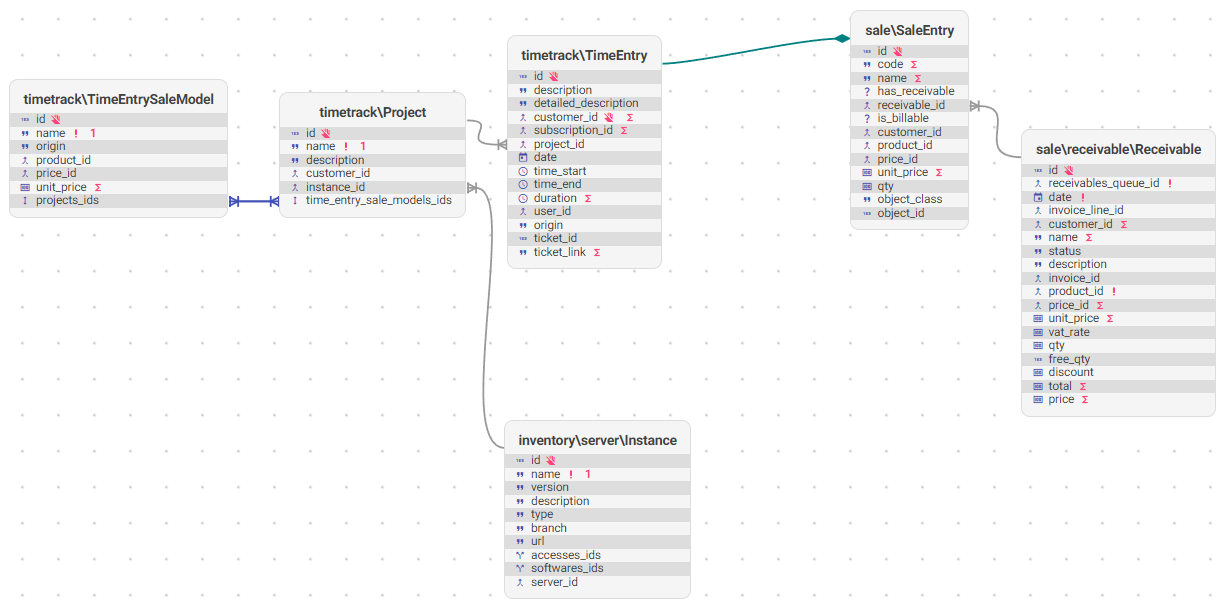
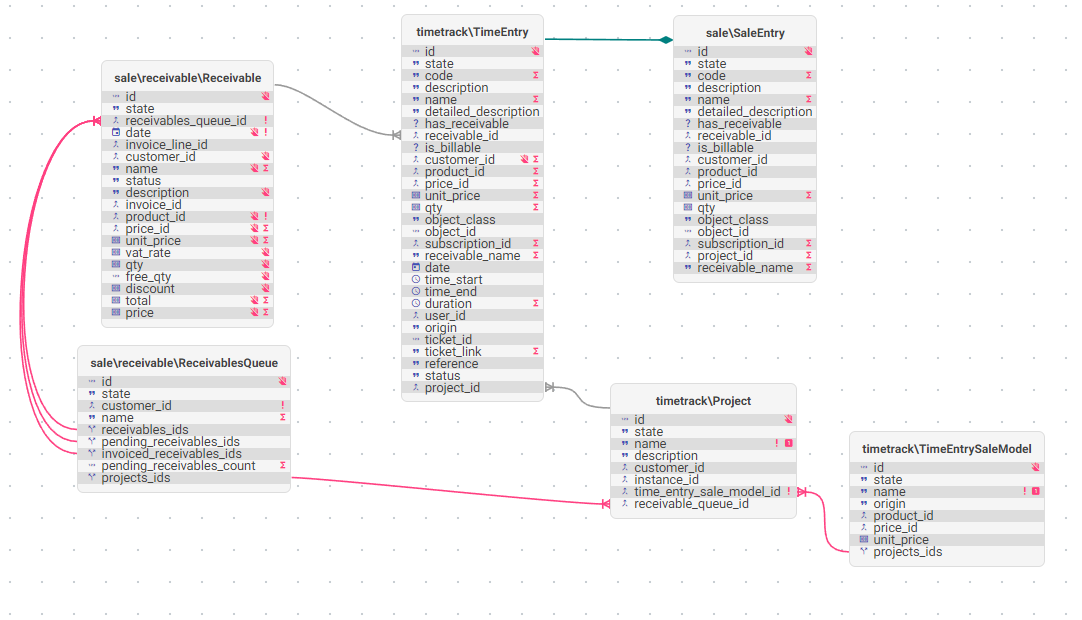
Update timetrack doc

Changed region(s): [[0.0, 0.0312, 0.8235, 0.7812], [0.366, 0.625, 0.976, 0.9688], [0.8235, 0.2188, 1.0, 0.6875]]

diff --git a/docs/developer-manual/timetrack/classes.md b/docs/developer-manual/timetrack/classes.md
@@ -1,52 +1,91 @@
-# Time entry
+# Timetrack classes
+
+## Time entry
 
 This class extends sale\SaleEntry, this means that receivables can be generated from time entries.
 
-## Properties
+### Properties
 
-| Property             | Type    | Description                                                                       | Value(s)                                       |
-|----------------------|---------|-----------------------------------------------------------------------------------|------------------------------------------------|
-| description          | string  | Description of the entry                                                          |                                                |
-| detailed_description | string  | Detailed description of the entry                                                 |                                                |
-| project_id           | integer | Project the time entry concerns                                                   |                                                |
-| customer_id          | integer | Customer the time entry concerns                                                  |                                                |
-| status               | string  | Current status of the time entry                                                  | (pending, ready, validated, billed)            |
-| date                 | date    | Date on which the time entry was realised                                         |                                                |
-| time_start           | time    | Time when task was started                                                        |                                                |
-| time_end             | time    | Time when task was finished                                                       |                                                |
-| duration             | time    | Duration of the time spent on the task                                            |                                                |
-| user_id              | integer | User who realised the task                                                        |                                                |
-| origin               | string  | What is the origin of the time entry                                              | (backlog, email, support)                      |
-| ticket_id            | integer | If origin support then a ticket id can be added to generate the ticket link       |                                                |
-| ticket_link          | string  | Automatically generated ticket link from project_id.instance_id.url and ticket_id | {instance_id.url}/support/#/ticket/{ticket_id} |
-| **SaleEntry**        |         |                                                                                   |                                                |
-| product_id           | integer | Catalog product                                                                   |                                                |
-| price_id             | integer | Product price                                                                     |                                                |
-| unit_price           | float   | Unit price per hour                                                               |                                                |
-| receivable_id        | integer | Generated receivable                                                              |                                                |
-| has_receivable       | boolean | True if a receivable has been generated                                           |                                                |
+| Property             | Type     | Description                                                                                   | Value(s)                                       |
+|----------------------|----------|-----------------------------------------------------------------------------------------------|------------------------------------------------|
+| date                 | date     | Date of the entry                                                                             |                                                |
+| time_start           | time     | Start time of the entry                                                                       |                                                |
+| time_end             | time     | End time of the entry                                                                         |                                                |
+| duration             | time     | Duration of the entry (from time start and time end)                                          |                                                |
+| qty                  | float    | Quantity in hours (from duration)                                                             |                                                |
+| user_id              | many2one | User the time entry was performed by                                                          |                                                |
+| origin               | string   | What the task performed is a response to                                                      | (project, backlog, email, support)             |
+| ticket_id            | integer  | Identifier of the support ticket                                                              |                                                |
+| ticket_link          | string   | Support ticket link for quick access (from ticket id and project instance link)               | {instance_id.url}/support/#/ticket/{ticket_id} |
+| reference            | string   | Reference completing the origin                                                               |                                                |
+| **SaleEntry**        |          |                                                                                               |                                                |
+| name                 | string   | Short readable identifier of the entry (from project name, origin, reference and description) |                                                |
+| description          | string   | Short description of the task performed                                                       |                                                |
+| project_id           | many2one | Identifier of the Project the sale entry originates from                                      |                                                |
+| customer_id          | many2one | Customer this time entry was created for (from project)                                       |                                                |
+| object_class         | string   | Class of the object object_id points to                                                       | timetrack\Project                              |
+| product_id           | many2one | Product of the sale catalog (from project sale model)                                         |                                                |
+| price_id             | many2one | Price of the sale (from project sale model)                                                   |                                                |
+| unit_price           | float    | Unit price of the product related to the entry (from project sale model)                      |                                                |
 
-# Project
+### Workflow
 
-## Properties
+```puml
+@startuml
+left to right direction
+hide empty description
 
-| Property                   | Type      | Description                                            |
-|----------------------------|-----------|--------------------------------------------------------|
-| name                       | string    | Name of the project                                    |
-| description                | string    | Description of the project                             |
-| customer_id                | integer   | Customer the project concerns                          |
-| instance_id                | integer   | Instance the project is installed on                   |
-| time_entry_sale_models_ids | many2many | A project can be linked to one or multiple sale models |
+[*] --> pending
+pending --> ready: request validation
+ready --> validated: validate
+ready --> pending: refuse
+validated --> billed: bill
+billed --> [*]
 
-# Time entry sale model
+@enduml
+```
 
-## Properties
+**Statuses**:
 
-| Property     | Type      | Description                                                      |
-|--------------|-----------|------------------------------------------------------------------|
-| name         | string    | Name of the model                                                |
-| origin       | string    | Origin the new time entry need to match for the model apply      |
-| projects_ids | many2many | Projects the new time entry need to match for the model to apply |
-| product_id   | integer   | Product to apply on new time entry if it matches                 |
-| price_id     | integer   | Price to apply on new time entry if it matches                   |
-| unit_price   | float     | Unit price to apply on new time entry if it matches              |
+- **pending**: The entry is still being modified by the creator.
+- **ready**: The entry was completed and is ready for the validation process.
+- **validated**: The entry was accepted as valid and can now be billed to the customer.
+- **billed**:  The entry was billed to the customer.
+
+**Transitions**:
+
+- **request validation**: Request approval of the time entry.
+- **validate**: Validate the entry data, it can be billed.
+- **refuse**: Refuse the entry data, it needs some modifications.
+- **bill**: Create a receivable that can be invoiced to the customer.
+
+## Project
+
+A project is linked to a customer and time entries.
+It organises time entries and allows to configure a sale model to auto apply sale related fields of a time entry.
+
+### Properties
+
+| Property                 | Type     | Description                                                                     | Value(s) |
+|--------------------------|----------|---------------------------------------------------------------------------------|----------|
+| name                     | string   | Name of the project                                                             |          |
+| description              | string   | Description of the project                                                      |          |
+| customer_id              | integer  | Customer the project concerns                                                   |          |
+| instance_id              | integer  | Instance the project is installed on                                            |          |
+| time_entry_sale_model_id | many2one | The sale model to apply on project's time entries                               |          |
+| receivable_queue_id      | many2one | The receivable queue to use for receivables generated by project's time entries |          |
+
+## Time entry sale model
+
+A (time entry) sale model allows to define which price (and product) should be used for time entries of a given project.
+
+### Properties
+
+| Property     | Type     | Description                                                     | Value(s)                           |
+|--------------|----------|-----------------------------------------------------------------|------------------------------------|
+| name         | string   | Name of the model                                               |                                    |
+| origin       | string   | Origin the new time entry need to match for the model apply     | (project, backlog, email, support) |
+| product_id   | integer  | Product to apply on new time entry if it matches                |                                    |
+| price_id     | integer  | Price to apply on new time entry if it matches                  |                                    |
+| unit_price   | float    | Unit price to apply on new time entry if it matches             |                                    |
+| projects_ids | one2many | Project the new time entry need to match for the model to apply |                                    |

diff --git a/docs/developer-manual/timetrack/actions.md b/docs/developer-manual/timetrack/actions.md
@@ -2,19 +2,20 @@
 
 ## Quick create
 
-Create quickly a new time entry that is meant to be modified inline.
-The user (usually the authenticated one), project and the origin are the only needed data to create quickly a new time entry.
-
-To get the most of this feature, time entry sale models need to be configured.
-It will set the sale information of the created time entry.
+Create a new time entry for given project and set its status to ready for validation.
+The time entry end time will be set to the current time rounded to a quarter of an hour.
+If a _30 minutes_ entry is created at _14:07_ the start time will be _13:30_ and the end time will be _14:00_.
+The time is set according to the time zone setting.
 
 ### Params
 
-| Param      | Type     | Required | Description                       | Value(s)              |
-|------------|----------|:--------:|-----------------------------------|-----------------------|
-| user_id    | many2one |    x     | User that realised the time entry |                       |
-| project_id | many2one |    x     | Project the time entry concerns   |                       |
-| origin     | string   |    x     | Origin of the time entry          | backlog/email/support |
+| Param       | Type     | Required | Description                                                  | Value(s)                           |
+|-------------|----------|:--------:|--------------------------------------------------------------|------------------------------------|
+| project_id  | many2one |    x     | Project the time entry concerns                              |                                    |
+| origin      | string   |    x     | Origin of the time entry                                     | (project, backlog, email, support) |
+| reference   | string   |          | Reference completing the origin                              |                                    |
+| description | string   |    x     | Short description                                            |                                    |
+| duration    | time     |          | Task duration in seconds (default 900 seconds => 15 minutes) |                                    |
 
 ### Uml
 
@@ -25,20 +26,19 @@ start
 
 :Quick create;
 
-if (Does the given user exist?) then (yes)
+if (Is user authenticated?) then (yes)
   if (Does the given project exist?) then (yes)
-    if (Can a sale model be applied?) then (yes)
-      :Apply sale model;
-    else (no)
-    endif
+    :Compute entry start & end time according to time zone;
+  
+    :Create time entry;
+      
+    :Apply request-validation transition;
   else (no)
     stop
   endif
 else (no)
   stop
 endif
-
-:Create time entry;
 
 stop
 

diff --git a/docs/developer-manual/timetrack/uml.md b/docs/developer-manual/timetrack/uml.md
@@ -4,20 +4,10 @@
 
 ![Timetrack models relations](../../assets/img/uml/timetrack/object-relational/package.png)
 
-## Timetrack and related packages
-
-![Timetrack models relations with other packages models](../../assets/img/uml/timetrack/object-relational/all-packages.png)
-
-## Time entry
-
-![Time entry relations with other packages models](../../assets/img/uml/timetrack/object-relational/time-entry.png)
+## Time entry sale inheritance
 
 ![Time entry inheritance with sale entry](../../assets/img/uml/timetrack/object-relational/time-entry-inheritance-sale.png)
 
-## Project
+## Timetrack and related packages
 
-![Project relations with other packages models](../../assets/img/uml/timetrack/object-relational/project.png)
-
-## Time entry sale model
-
-![Time entry sale model relations with other packages models](../../assets/img/uml/timetrack/object-relational/time-entry-sale-model.png)
+![Timetrack models relations with other packages models](../../assets/img/uml/timetrack/object-relational/all-packages.png)

diff --git a/docs/developer-manual/timetrack/index.md b/docs/developer-manual/timetrack/index.md
@@ -14,9 +14,5 @@ A customer project categorizes the time entries, it is also used to apply specif
 
 ## Time entry sale model
 
-A sale model allows to automatically set the sale information of a new time entry.
-Its goal is to ease the creation of time entries.
-
-Each origin (backlog/email/support) can have a default sale model to apply on new time entries from that origin.
-Other sale models can be created by linking them to specific projects.
-A sale model with the same origin and project than the new time entry will be applied by priority.
+A sales model streamlines the process of creating time entries by automatically assigning sale information to each new entry.
+When a project is associated with a sales model, all time entries for that project will inherit the sale information based on the linked sales model.
